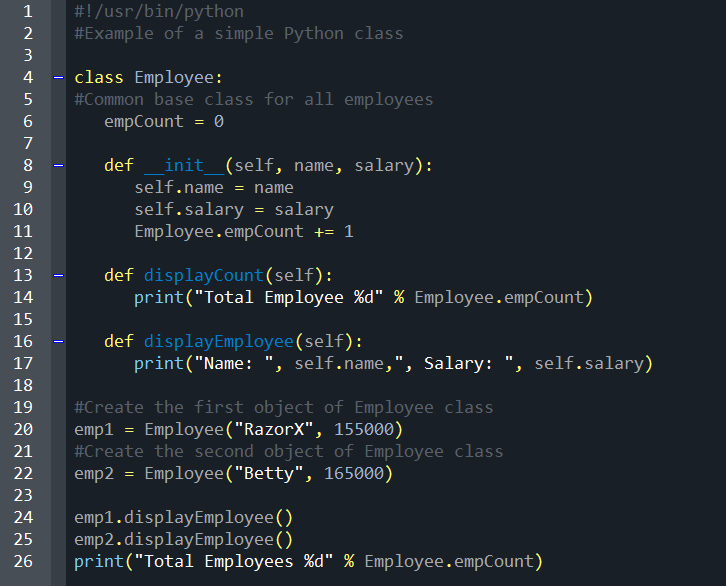
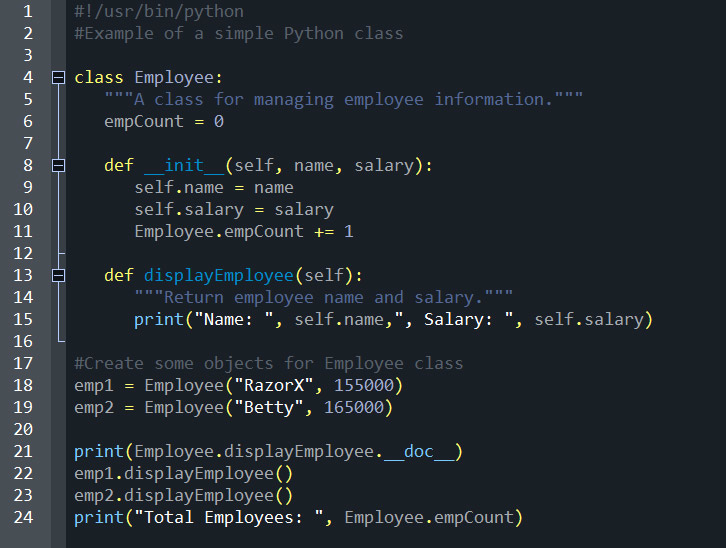
Fold-mark and active range colors were added

diff --git a/LICENSE.md b/LICENSE.md
@@ -4,9 +4,8 @@ Copyright (c) 2014 Daniel Hill aka RazorX - Identity e-mail: public at RazorX.co
 
 
 
-Permission is hereby granted, free of charge, to any person obtaining a copy
-of this software and associated documentation files (the "Software"), to deal
-in the Software without restriction, including without limitation the rights
+Permission is hereby granted, free of charge, to any person obtaining a copy 
+of this software and associated documentation files (the "Software"), to deal in the Software without restriction, including without limitation the rights 
 to use, copy, modify, merge, publish, distribute, sublicense, and/or sell
 copies of the Software, and to permit persons to whom the Software is
 furnished to do so, subject to the following conditions:

diff --git a/README.md b/README.md
@@ -6,7 +6,7 @@ Optional color palette for the Python Wing IDE
 
 About
 ==========================
-Sun Steel is a custom color scheme designed for the Python Wing IDE. The scheme is the color approximation of a #FFFC6F Tetrad with high contrast.
+Sun Steel is a custom color scheme designed for the Python Wing IDE. The scheme is the color approximation of a #FFFC6F Triad with high contrast.
 
 Author: RazorX aka Daniel Hill 
 

diff --git a/CHANGELOG.md b/CHANGELOG.md
@@ -1,3 +1,10 @@
+## 1.1 (December 7, 2014)
+
+Enhancements:
+
+  - Fold-mark and active range colors were added. Note: These are new and were not available until Wing IDE 5.0.9.
+  - The colors for tripple, tripple double, single string, double string, number, edge-marker, and bookmark were slightly modified for visual distinction.
+
 ## 1.0 (July 17, 2014)
 
 First release.
